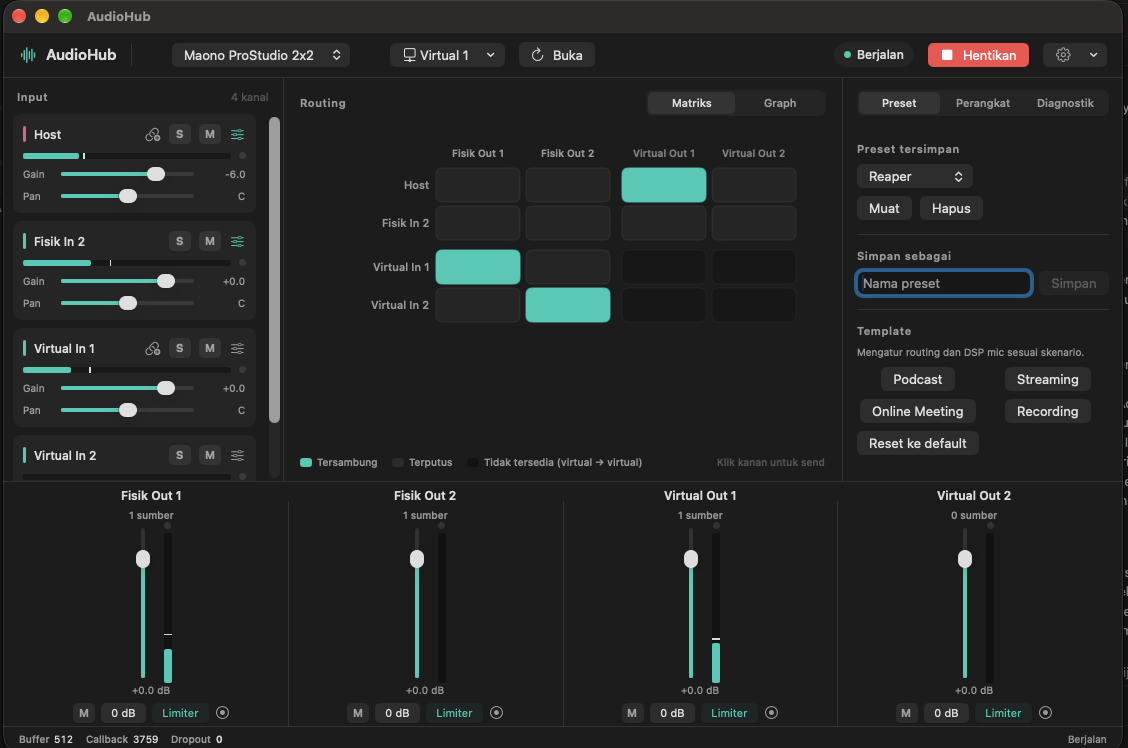
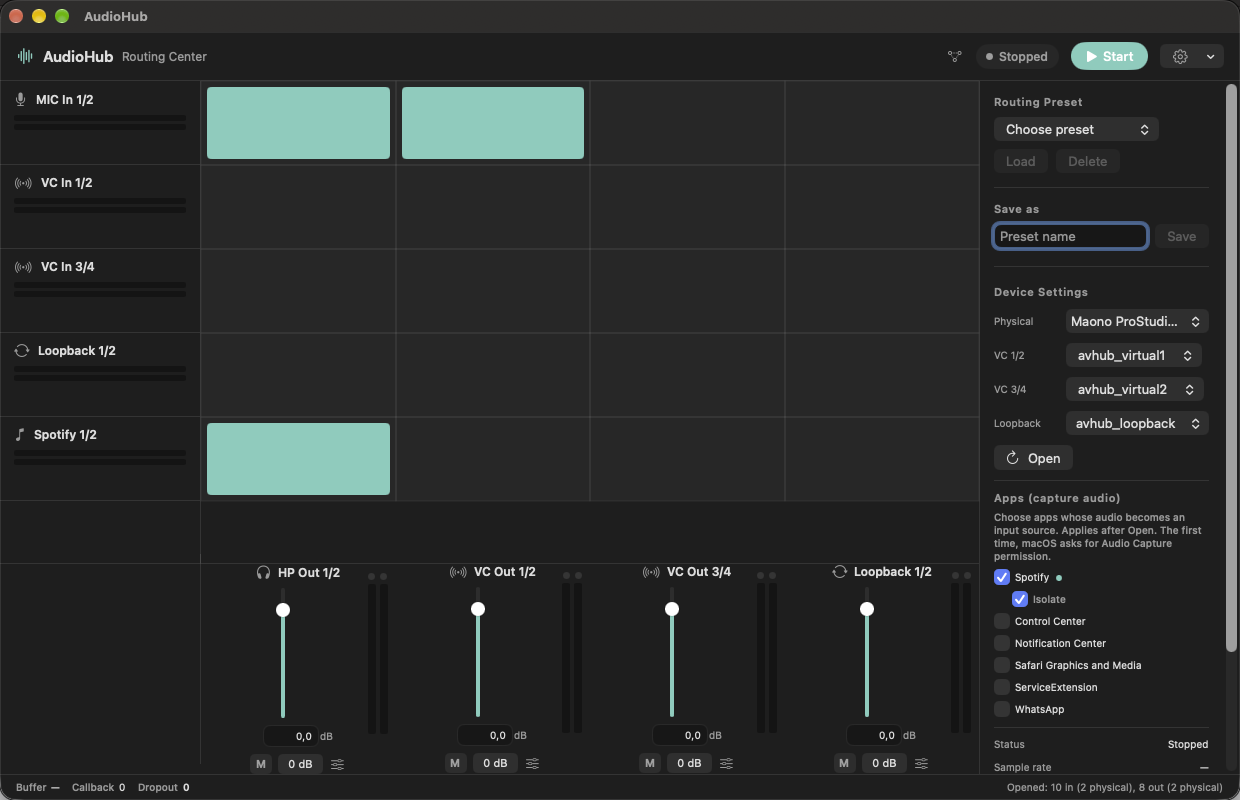
audiohub: screenshot terbaru dan informasi sesuai build 0.3.0
- Screenshot tema gelap dan terang diganti dengan tampilan build terbaru (pasangan kanal, tangkap aplikasi, route tersambung).
- Ukuran gambar diperbarui sesuai file baru.

diff --git a/public/audiohub/index.html b/public/audiohub/index.html
@@ -163,7 +163,7 @@ footer a{color:inherit}
       <span class="badge">Installer ditandatangani Developer ID</span>
       <span class="badge">Driver hingga 768 kHz</span>
     </div>
-    <img class="hero-shot" src="/audiohub/img/i-dark.png" width="1128" height="748" alt="Jendela AudioHub dengan tema gelap">
+    <img class="hero-shot" src="/audiohub/img/i-dark.png" width="1240" height="800" alt="Jendela AudioHub dengan tema gelap">
   </div>
 </section>
 
@@ -287,11 +287,11 @@ footer a{color:inherit}
     </div>
     <div class="pair">
       <figure>
-        <img src="/audiohub/img/i-light.png" width="1127" height="753" loading="lazy" alt="Jendela AudioHub dengan tema terang">
+        <img src="/audiohub/img/i-light.png" width="1240" height="800" loading="lazy" alt="Jendela AudioHub dengan tema terang">
         <figcaption>Tema terang</figcaption>
       </figure>
       <figure>
-        <img src="/audiohub/img/i-dark.png" width="1128" height="748" loading="lazy" alt="Jendela AudioHub dengan tema gelap">
+        <img src="/audiohub/img/i-dark.png" width="1240" height="800" loading="lazy" alt="Jendela AudioHub dengan tema gelap">
         <figcaption>Tema gelap</figcaption>
       </figure>
     </div>
